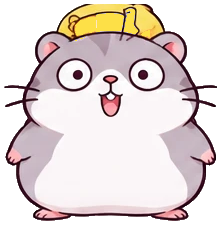
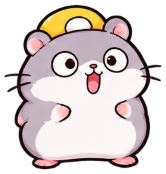
feat(mascots-chat): uniform 16-sprite artstyle, compact chat bar, and losing hamster crying animation

diff --git a/src/ui/guides.css b/src/ui/guides.css
@@ -111,13 +111,13 @@
 @keyframes hamster-bob { 50% { translate: 0 -3px; } }
 @media (prefers-reduced-motion: reduce) { .guide-launcher, .guide-launcher img { transition: none; animation: none !important; } }
 
-/* Phase 1e: charcoal pill with a drip tail pointing at the hamster; white round send button with a bent return arrow. */
-.guide-panel, .guide-panel:has(.guide-chat__turn) { display: flex; flex-direction: column; width: min(560px, calc(100% - 44px)); max-height: calc(var(--vv-height, 100dvh) - var(--panel-bottom, 156px) - 12px); left: 22px; bottom: var(--panel-bottom, 156px); padding: 0; overflow: visible; background: transparent; border: 0; box-shadow: none; }
+/* Phase 1e: compact charcoal pill with a drip tail pointing at the hamster; white round send button with a bent return arrow. */
+.guide-panel, .guide-panel:has(.guide-chat__turn) { display: flex; flex-direction: column; width: min(340px, calc(100% - 36px)); max-height: calc(var(--vv-height, 100dvh) - var(--panel-bottom, 156px) - 12px); left: 22px; bottom: var(--panel-bottom, 156px); padding: 0; overflow: visible; background: transparent; border: 0; box-shadow: none; }
 .guide-chat { display: flex; flex-direction: column; min-height: 0; flex: 1 1 auto; }
-.guide-chat__messages { flex: 1 1 auto; min-height: 0; max-height: min(46dvh, 340px, calc(var(--vv-height, 100dvh) - var(--panel-bottom, 156px) - 116px)); padding-bottom: 6px; }
+.guide-chat__messages { flex: 1 1 auto; min-height: 0; max-height: min(42dvh, 300px, calc(var(--vv-height, 100dvh) - var(--panel-bottom, 156px) - 104px)); padding-bottom: 6px; }
 .guide-chat__confirm { margin: 8px 0 4px; font-size: 12px; color: var(--discovery-mint); font-weight: 500; }
-.guide-chat__turn { background: #1b1b1b; color: #fff; border-radius: 22px; padding: 12px 18px; margin: 8px 0; box-shadow: 0 8px 24px #00000059; }
-.guide-chat__turn[data-role=user] { background: #333; margin-left: 56px; }
+.guide-chat__turn { background: #1b1b1b; color: #fff; border-radius: 18px; padding: 10px 14px; margin: 6px 0; box-shadow: 0 8px 24px #00000059; }
+.guide-chat__turn[data-role=user] { background: #333; margin-left: 40px; }
 .guide-chat__turn strong { color: #ff9500; }
 .guide-chat__turn button { background: #2b2b2b; border-color: #ffffff26; color: #fff; }
 .guide-chat__messages > [role="status"],
@@ -144,17 +144,18 @@
 .guide-chat form { display: flex; flex-direction: column; }
 .guide-chat__controls { order: -1; margin: 0 0 4px; }
 .guide-chat__clear { color: #ffffffb3; border-color: #ffffff26; }
-.guide-chat__bar { min-height: 60px; padding: 8px 8px 8px 26px; background: #1b1b1b; border: 0; border-radius: 999px; box-shadow: 0 12px 32px #00000066; }
+.guide-chat__bar { min-height: 46px; padding: 4px 6px 4px 16px; background: #1b1b1b; border: 0; border-radius: 999px; box-shadow: 0 12px 32px #00000066; }
 .guide-chat__bar:focus-within { border: 0; box-shadow: 0 12px 32px #00000066, 0 0 0 2px #ffffff40; }
-.guide-chat__bar::after { left: 14px; bottom: -28px; width: 36px; height: 30px; background: #1b1b1b;
-  clip-path: path('M0 0 C10 0 15 6 16 14 C16.5 20 17 24 18 28 C18.4 30 19.6 30 20 28 C21 24 21.5 20 22 14 C23 6 28 0 36 0 Z'); }
-.guide-chat__bar textarea { color: #fff; font-size: 16px; }
+.guide-chat__bar::after { left: 14px; bottom: -20px; width: 28px; height: 22px; background: #1b1b1b;
+  clip-path: path('M0 0 C8 0 12 4 13 10 C13.4 15 13.8 18 14 21 C14.3 22 15.1 22 15.4 21 C15.8 18 16.2 15 16.6 10 C17.6 4 21 0 28 0 Z'); }
+.guide-chat__bar textarea { color: #fff; font-size: 14px; min-height: 30px; padding: 4px 0; }
 .guide-chat__bar textarea::placeholder { color: #ffffffcc; }
 .guide-chat__send { width: 44px; height: 44px; min-height: 44px; background: #fff; color: #111; box-shadow: none; }
 .guide-chat__send:disabled { background: #ffffff40; color: #ffffff80; }
 .guide-chat__stop { background: #fff; color: #111; border: 0; font-weight: 600; }
 @media (max-width: 700px) {
   .guide-panel, .guide-panel:has(.guide-chat__turn) { --panel-bottom: 150px; left: 12px; bottom: var(--panel-bottom); width: calc(100% - 24px); }
+  .guide-chat__bar textarea { font-size: 16px; }
   .guide-chat__bar::after { left: auto; right: 6px; }
 }
 .character-guides[data-keyboard=true] .guide-panel,
@@ -179,17 +180,27 @@
 @media (min-width: 701px) {
   .guide-chat__bar::after { left: var(--tail-left, 24px); }
   .guide-panel[data-placement=below] .guide-chat__bar::after {
-    top: -26px;
+    top: -19px;
     bottom: auto;
     transform: rotate(180deg);
   }
 }
 
-/* Phase 2 & 3: Fighting scene, Explainer & Student map presenter sprites and captions. */
+/* Phase 2 & 3: Fighting scene, Loser crying animation, Explainer & Student map presenter sprites and captions. */
 .guide-launcher[data-hidden-in-fight=true],
 .explainer[data-hidden-in-fight=true] { opacity: 0 !important; pointer-events: none; }
 .mascot-fight { position: absolute; left: 0; top: 0; width: 220px; height: 184px; pointer-events: none; z-index: 8; }
 .mascot-fight img { width: 100%; height: 100%; object-fit: contain; filter: drop-shadow(0 8px 16px #06132680); animation: fight-shake 180ms ease-in-out infinite alternate; }
+.mascot-loser { position: absolute; left: 0; top: 0; width: 84px; height: 84px; pointer-events: none; z-index: 6; }
+.mascot-loser img { width: 100%; height: 100%; object-fit: contain; object-position: center bottom; filter: drop-shadow(0 6px 10px #06132666); }
+@keyframes hamster-cry {
+  0% { transform: translateY(0) scale(1, 1); }
+  50% { transform: translateY(2px) scale(1.04, 0.96); }
+  100% { transform: translateY(-1px) scale(0.98, 1.02); }
+}
+@media (prefers-reduced-motion: no-preference) {
+  .character-guides[data-paused=false] .mascot-loser[data-crying=true] img { animation: hamster-cry 320ms ease-in-out infinite alternate; }
+}
 @keyframes fight-shake {
   from { transform: translate(-3px, -2px) rotate(-2deg) scale(1.02); }
   to { transform: translate(3px, 2px) rotate(2deg) scale(0.98); }
@@ -224,11 +235,13 @@
   .explainer__caption p[data-typing=true]::after,
   .guide-launcher[data-talking=true] img,
   .explainer[data-talking=true] .explainer__body,
-  .mascot-fight img { animation: none; }
+  .mascot-fight img,
+  .mascot-loser img { animation: none; }
 }
 @media (max-width: 700px) {
   .guide-launcher { bottom: max(70px, calc(env(safe-area-inset-bottom, 0px) + 56px)); }
   .mascot-fight { width: 132px; height: 110px; }
+  .mascot-loser { width: 48px; height: 48px; }
   .explainer { width: 56px; height: 64px; }
   .explainer__caption { left: 62px; bottom: auto; top: 0; width: min(210px, calc(100vw - 96px)); }
   .explainer__rivalry, .student-presenter__rivalry { font-size: 9px; white-space: nowrap; overflow: hidden; text-overflow: ellipsis; }
@@ -238,6 +251,7 @@
   .student-presenter__caption p { font-size: 10px; margin-top: 2px; }
 }
 @media (max-height: 500px) and (orientation: landscape) {
+  .mascot-loser { display: none; }
   .guide-launcher { bottom: 56px; left: 12px; right: auto; width: 52px; height: 58px; }
   .guide-launcher img { width: 52px; height: 58px; }
   .map-preview:has(.student-preview) .guide-launcher { top: 64px; right: 12px; bottom: auto; left: auto; }

diff --git a/src/ui/CharacterGuides.tsx b/src/ui/CharacterGuides.tsx
@@ -60,7 +60,7 @@ function anchoredPanel(
     return { placement: "above" };
   }
   if (!launcher) return { placement: "above" };
-  const panelWidth = Math.min(560, innerWidth - 24);
+  const panelWidth = Math.min(340, innerWidth - 24);
   const hamsterLeft = launcher.offsetLeft + wander.x;
   const hamsterTop = launcher.offsetTop + wander.y;
   const hamsterCenterX = hamsterLeft + launcher.offsetWidth / 2;
@@ -77,14 +77,14 @@ function anchoredPanel(
 
   // If Guide wandered near the top edge, open the ask bar directly below Guide instead of clipping off-top.
   if (hamsterTop < 180) {
-    const top = Math.round(hamsterTop + launcher.offsetHeight + 18);
+    const top = Math.round(hamsterTop + launcher.offsetHeight + 12);
     return {
       style: { left, top, bottom: "auto", "--panel-top": `${top}px`, "--tail-left": `${tailLeft}px` } as CSSProperties,
       placement: "below",
     };
   }
 
-  const bottom = Math.round(Math.max(18, vvHeight - hamsterTop + 18));
+  const bottom = Math.round(Math.max(18, vvHeight - hamsterTop + 12));
   return {
     style: { left, bottom, "--panel-bottom": `${bottom}px`, "--tail-left": `${tailLeft}px` } as CSSProperties,
     placement: "above",
@@ -512,6 +512,14 @@ export function CharacterGuides({ groups, group, studentId, competitionId, stude
     jumping: false,
   });
   const activeExplainerMascot = fightPhase === "done" ? provinceWinner : "explainer";
+  const provinceLoser = provinceWinner === "guide" ? "explainer" : "guide";
+  const showLoserCrying = activeScene === "rivalry" && fightPhase === "done" && !competitionId && !exiting;
+  const loserLeft = typeof window !== "undefined" && innerWidth <= 700
+    ? Math.min(innerWidth - 64, explainerPos.x + 52)
+    : Math.max(12, explainerPos.x + 112);
+  const loserTop = typeof window !== "undefined" && innerWidth <= 700
+    ? Math.min(innerHeight - 76, explainerPos.y + 44)
+    : Math.min(typeof window !== "undefined" ? innerHeight - 96 : 600, explainerPos.y + 44);
   const explainerPose = selectExplainerPose({
     traveling: traveling || racing,
     step: explainerStep,
@@ -557,6 +565,13 @@ export function CharacterGuides({ groups, group, studentId, competitionId, stude
         style={{ transform: `translate(${Math.max(12, explainerPos.x - 24)}px, ${Math.max(72, explainerPos.y - 16)}px)` }}
         aria-hidden="true">
         <img src={FIGHT_FRAMES[fightFrame]} alt="" />
+      </div>
+    )}
+    {showLoserCrying && (
+      <div className="mascot-loser" data-crying="true" data-mascot={provinceLoser}
+        style={{ transform: `translate(${loserLeft}px, ${loserTop}px)` }}
+        aria-hidden="true">
+        <img src={mascotSpritePath(provinceLoser, "cry")} alt="" />
       </div>
     )}
     <div ref={traveler} className="explainer"

diff --git a/tests/character-guides.spec.ts b/tests/character-guides.spec.ts
@@ -88,6 +88,7 @@ for (const width of [320, 390, 1440]) {
     await expect(page.locator(".explainer")).toHaveAttribute("data-traveling", "false");
     await expect(page.locator(".explainer__caption")).toContainText("จังหวัดBangkok");
     await expect(page.locator(".explainer__rivalry")).toContainText("ชนะศึกแย่งไมค์");
+    await expect(page.locator('.mascot-loser[data-crying="true"] img')).toHaveAttribute("src", /-(cry)\.png$/);
     await page.screenshot({ path: test.info().outputPath(`explainer-bubbles-${width}.png`) });
 
     await page.locator(".discovery-all").click();

diff --git a/src/ui/mascotSprites.test.ts b/src/ui/mascotSprites.test.ts
@@ -5,7 +5,7 @@ import { test } from "node:test";
 import { FIGHT_FRAMES, MASCOT_POSES, mascotSpritePath } from "./mascotSprites";
 
 test("all mascot pose sprite paths resolve to existing non-empty PNG files in public/demo", () => {
-  assert.deepEqual(MASCOT_POSES, ["pet", "walk1", "walk2", "talk", "back", "jump", "argue"]);
+  assert.deepEqual(MASCOT_POSES, ["pet", "walk1", "walk2", "talk", "back", "jump", "argue", "cry"]);
   for (const mascot of ["guide", "explainer"] as const) {
     for (const pose of MASCOT_POSES) {
       const url = mascotSpritePath(mascot, pose);

diff --git a/src/ui/mascotSprites.ts b/src/ui/mascotSprites.ts
@@ -1,5 +1,5 @@
 export type MascotId = "guide" | "explainer";
-export type MascotPose = "pet" | "walk1" | "walk2" | "talk" | "back" | "jump" | "argue";
+export type MascotPose = "pet" | "walk1" | "walk2" | "talk" | "back" | "jump" | "argue" | "cry";
 
 export const MASCOT_POSES: readonly MascotPose[] = [
   "pet",
@@ -9,6 +9,7 @@ export const MASCOT_POSES: readonly MascotPose[] = [
   "back",
   "jump",
   "argue",
+  "cry",
 ];
 
 export const FIGHT_FRAMES = [
